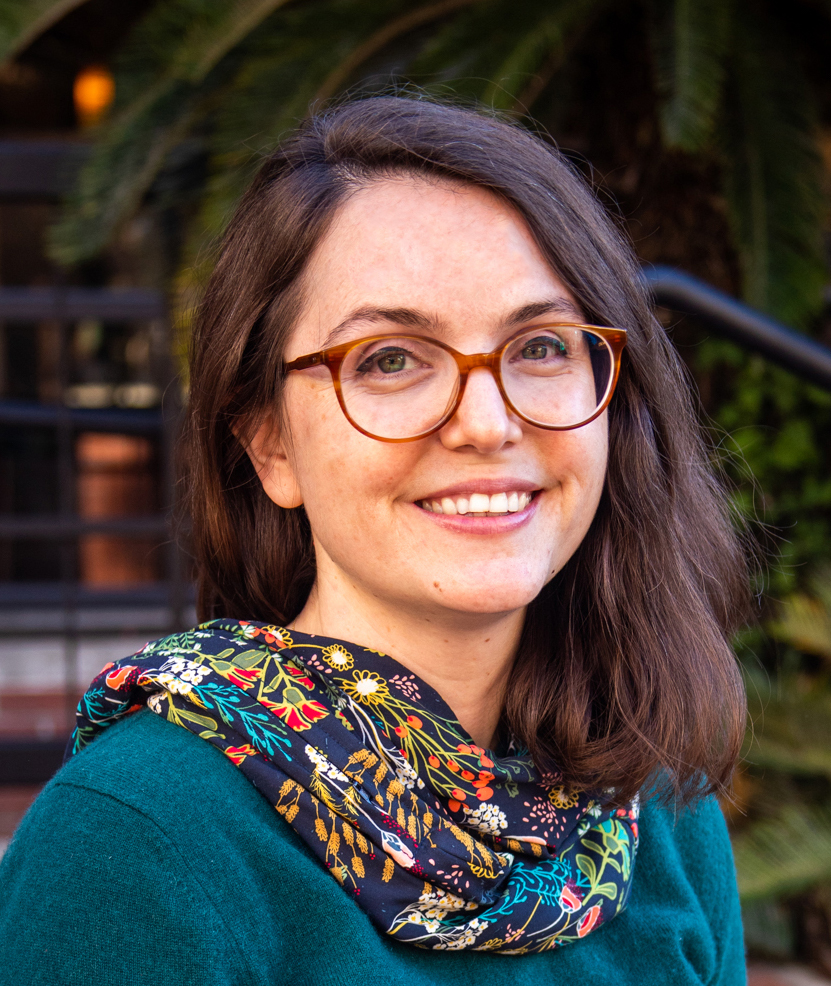
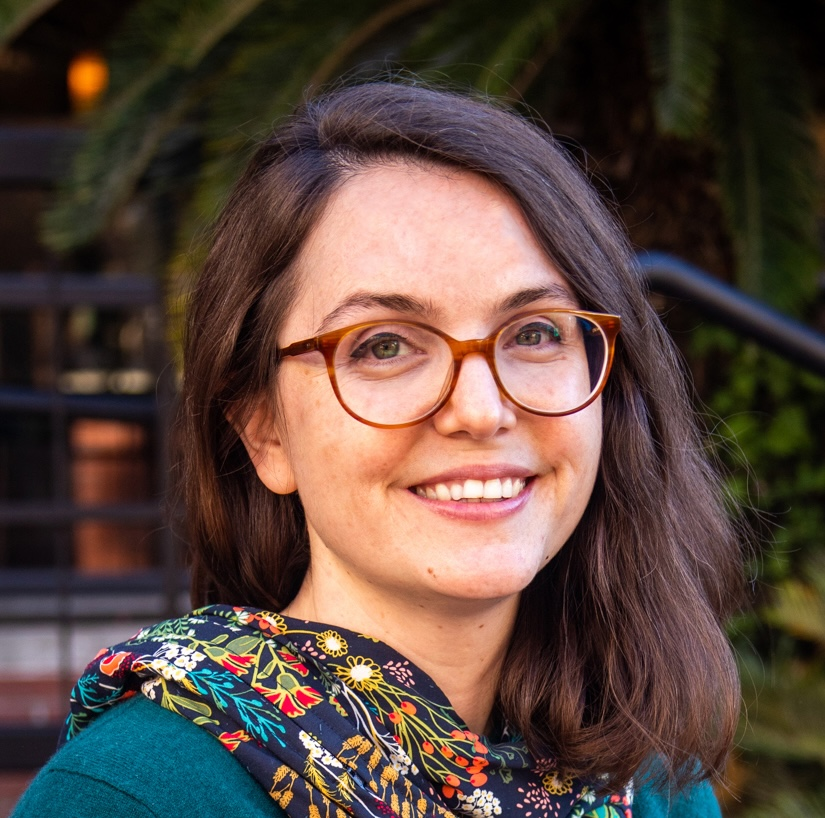
members_rearrange

diff --git a/src/pages/members.tsx b/src/pages/members.tsx
@@ -204,12 +204,6 @@ const Collaborators = [
     description: (<>Head of the IPS/LAS BioLab at Karlsruhe Institute of Technology. PI for morphological imaging in life sciences. Coordinator for the research topic “Building Blocks of Life” within the Helmholtz program “From Matter to Materials and Life”.</>),
   },
   {
-    name: (<a href="">Want to get Involved?</a>),
-    image: 'img/DarkTreeLogo.png',
-    //title: (<></>),
-    description: (<>We are welcoming collaborations! If you want to get involved with the DarkTree project go to <a href="https://insect-darktree.github.io/involved/get_involved">this page</a> to read more.</>),
-  },
-  {
     name: (<a href="">Emily Hartop</a>),
     image: 'img/Hartopsquare.jpg',
     title: (<>Researcher</>),
@@ -219,7 +213,13 @@ const Collaborators = [
     name: (<a href="">Jessica Awad</a>),
     image: 'img/JessAwad.jpg',
     title: (<>Researcher</>),
-    description: (<>Emily is a Researcher at Naturalis Biodiversity Center in Leiden, Netherlands. She is an entomologist specialising in dark taxa, with a focus on microscopic parasitoid wasps that lay their eggs inside gall midges (Hymenoptera: Platygastrinae). </>),
+    description: (<>Jessica is a Researcher at Naturalis Biodiversity Center in Leiden, Netherlands. She is an entomologist specialising in dark taxa, with a focus on microscopic parasitoid wasps that lay their eggs inside gall midges (Hymenoptera: Platygastrinae). </>),
+  },
+  {
+    name: (<a href="">Want to get Involved?</a>),
+    image: 'img/DarkTreeLogo.png',
+    //title: (<></>),
+    description: (<>We are welcoming collaborations! If you want to get involved with the DarkTree project go to <a href="https://insect-darktree.github.io/involved/get_involved">this page</a> to read more.</>),
   },
   ];
 
